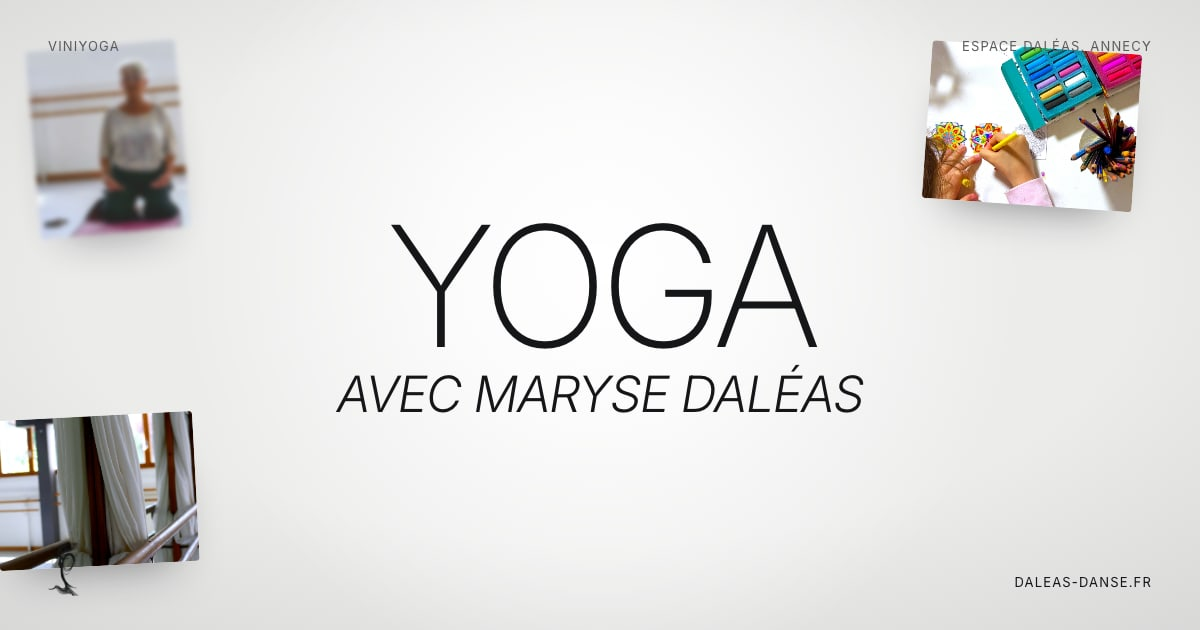
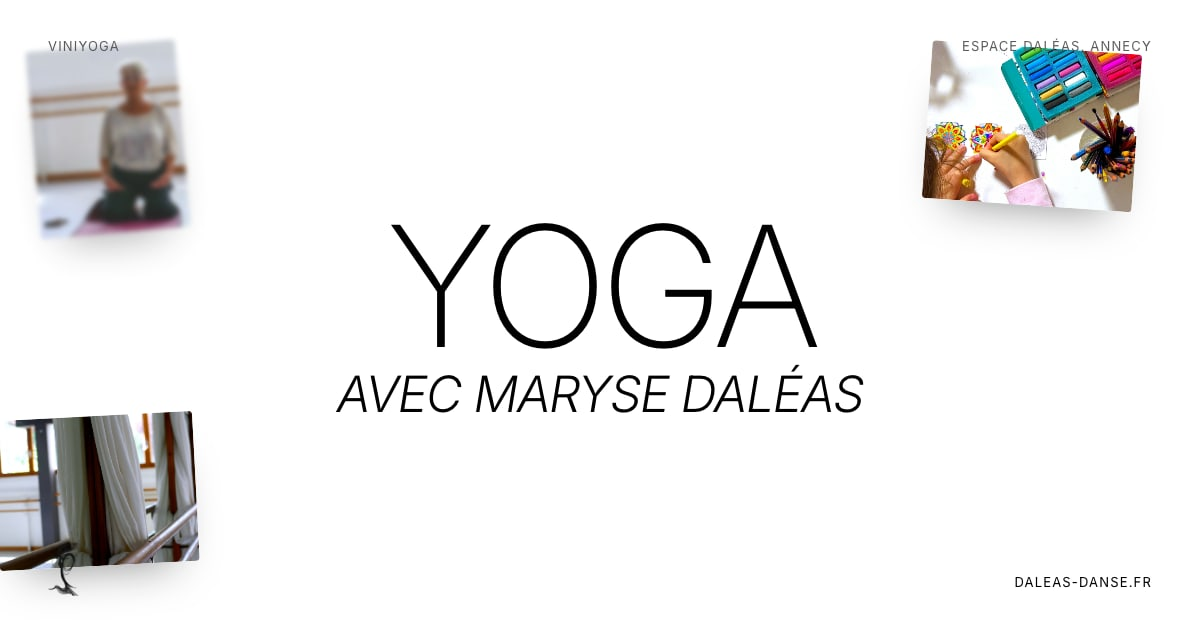
Mode clair blanc pur, mode sombre noir pur

diff --git a/src/styles/global.css b/src/styles/global.css
@@ -14,12 +14,12 @@
 }
 
 :root {
-  --paper: #ececeb;
+  --paper: #ffffff;
   --white: #ffffff;
-  --ink: #141617;
-  --black: #070707;
-  --surface: color-mix(in srgb, var(--white) 55%, transparent);
-  --placeholder: #e2e2e1;
+  --ink: #000000;
+  --black: #000000;
+  --surface: rgba(0, 0, 0, 0.035);
+  --placeholder: #f2f2f2;
   --rev-muted: rgba(255, 255, 255, 0.62);
   --rev-rule: rgba(255, 255, 255, 0.16);
   --rev-chip: rgba(255, 255, 255, 0.1);
@@ -473,16 +473,16 @@ html { background: var(--paper); color-scheme: light; }
 .on-black .prose, .on-black .lead { letter-spacing: calc(var(--tr-body) + 0.006em); }
 
 html[data-theme='dark'] {
-  --paper: #0b0b0b;
-  --white: #161616;
-  --ink: #ececeb;
-  --black: #ececeb;
+  --paper: #000000;
+  --white: #111111;
+  --ink: #ffffff;
+  --black: #ffffff;
   --muted: #9a9a99;
-  --line: rgba(236, 236, 235, 0.16);
-  --chip: rgba(236, 236, 235, 0.08);
-  --chip-bg: rgba(236, 236, 235, 0.08);
-  --surface: color-mix(in srgb, #ffffff 6%, transparent);
-  --placeholder: #1b1b1b;
+  --line: rgba(255, 255, 255, 0.16);
+  --chip: rgba(255, 255, 255, 0.08);
+  --chip-bg: rgba(255, 255, 255, 0.08);
+  --surface: rgba(255, 255, 255, 0.06);
+  --placeholder: #111111;
   --rev-muted: rgba(20, 22, 23, 0.66);
   --rev-rule: rgba(20, 22, 23, 0.16);
   --rev-chip: rgba(20, 22, 23, 0.08);
@@ -491,13 +491,11 @@ html[data-theme='dark'] {
 }
 html[data-theme='dark'] .bglight::after,
 html[data-theme='dark'] .bglight::before { opacity: 0.08; }
-html[data-theme='dark'] .lightfx { background: radial-gradient(ellipse 80% 75% at 50% 45%, rgba(0, 0, 0, 0) 50%, rgba(0, 0, 0, 0.3) 100%); }
-html[data-theme='dark'] .lightfx__glow { opacity: 0.35; }
-html[data-theme='dark'] .bglight__spot { opacity: 0.07; }
-html[data-theme='dark'] .grain { filter: invert(1); opacity: 0.05; }
 html[data-theme='dark'] .on-black.stage::before, html[data-theme='dark'] .on-black.stage::after { opacity: 0; }
 html[data-theme='dark'] :is(.lit, .media, .tile__img, .card, .contact__card, .gal__item, .ph__img) { box-shadow: 0 24px 46px -26px rgba(0, 0, 0, 0.8); }
 html[data-theme='dark'] ::selection { background: var(--ink); color: var(--paper); }
 
 .is-theming::view-transition-old(root), .is-theming::view-transition-new(root) { animation: none; mix-blend-mode: normal; }
 .is-theming::view-transition-old(nav), .is-theming::view-transition-new(nav) { animation: none; }
+
+.grain, .lightfx, .bglight__spot, .bglight::before, .bglight::after, .on-black.stage::before, .on-black.stage::after { display: none; }
